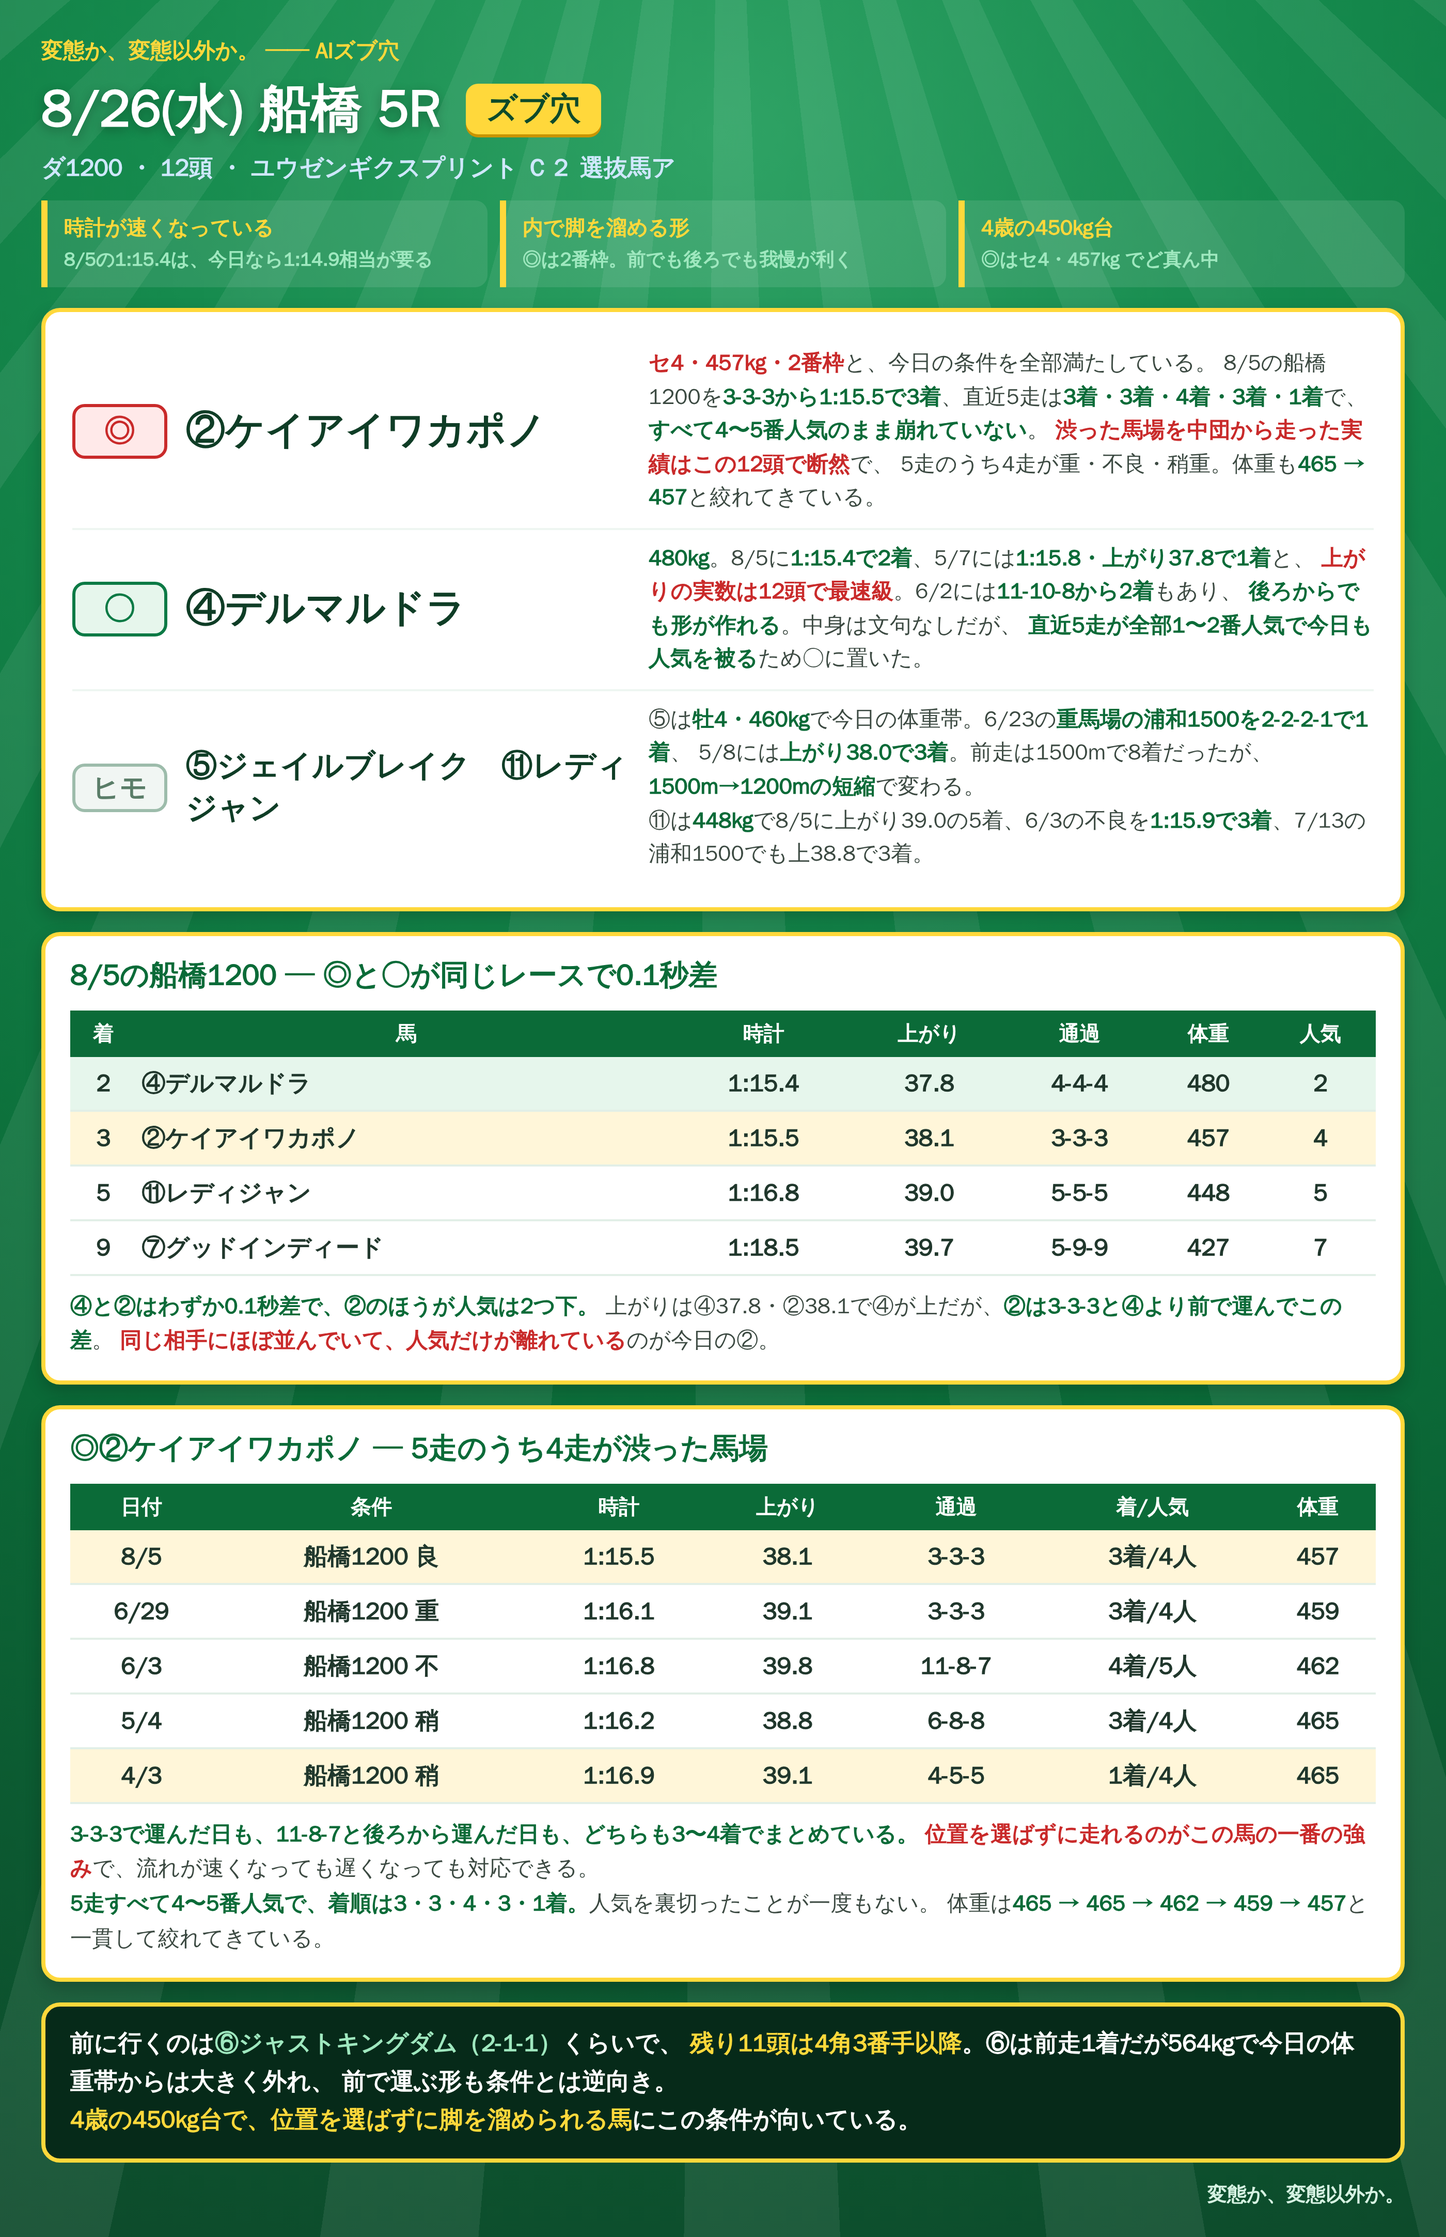
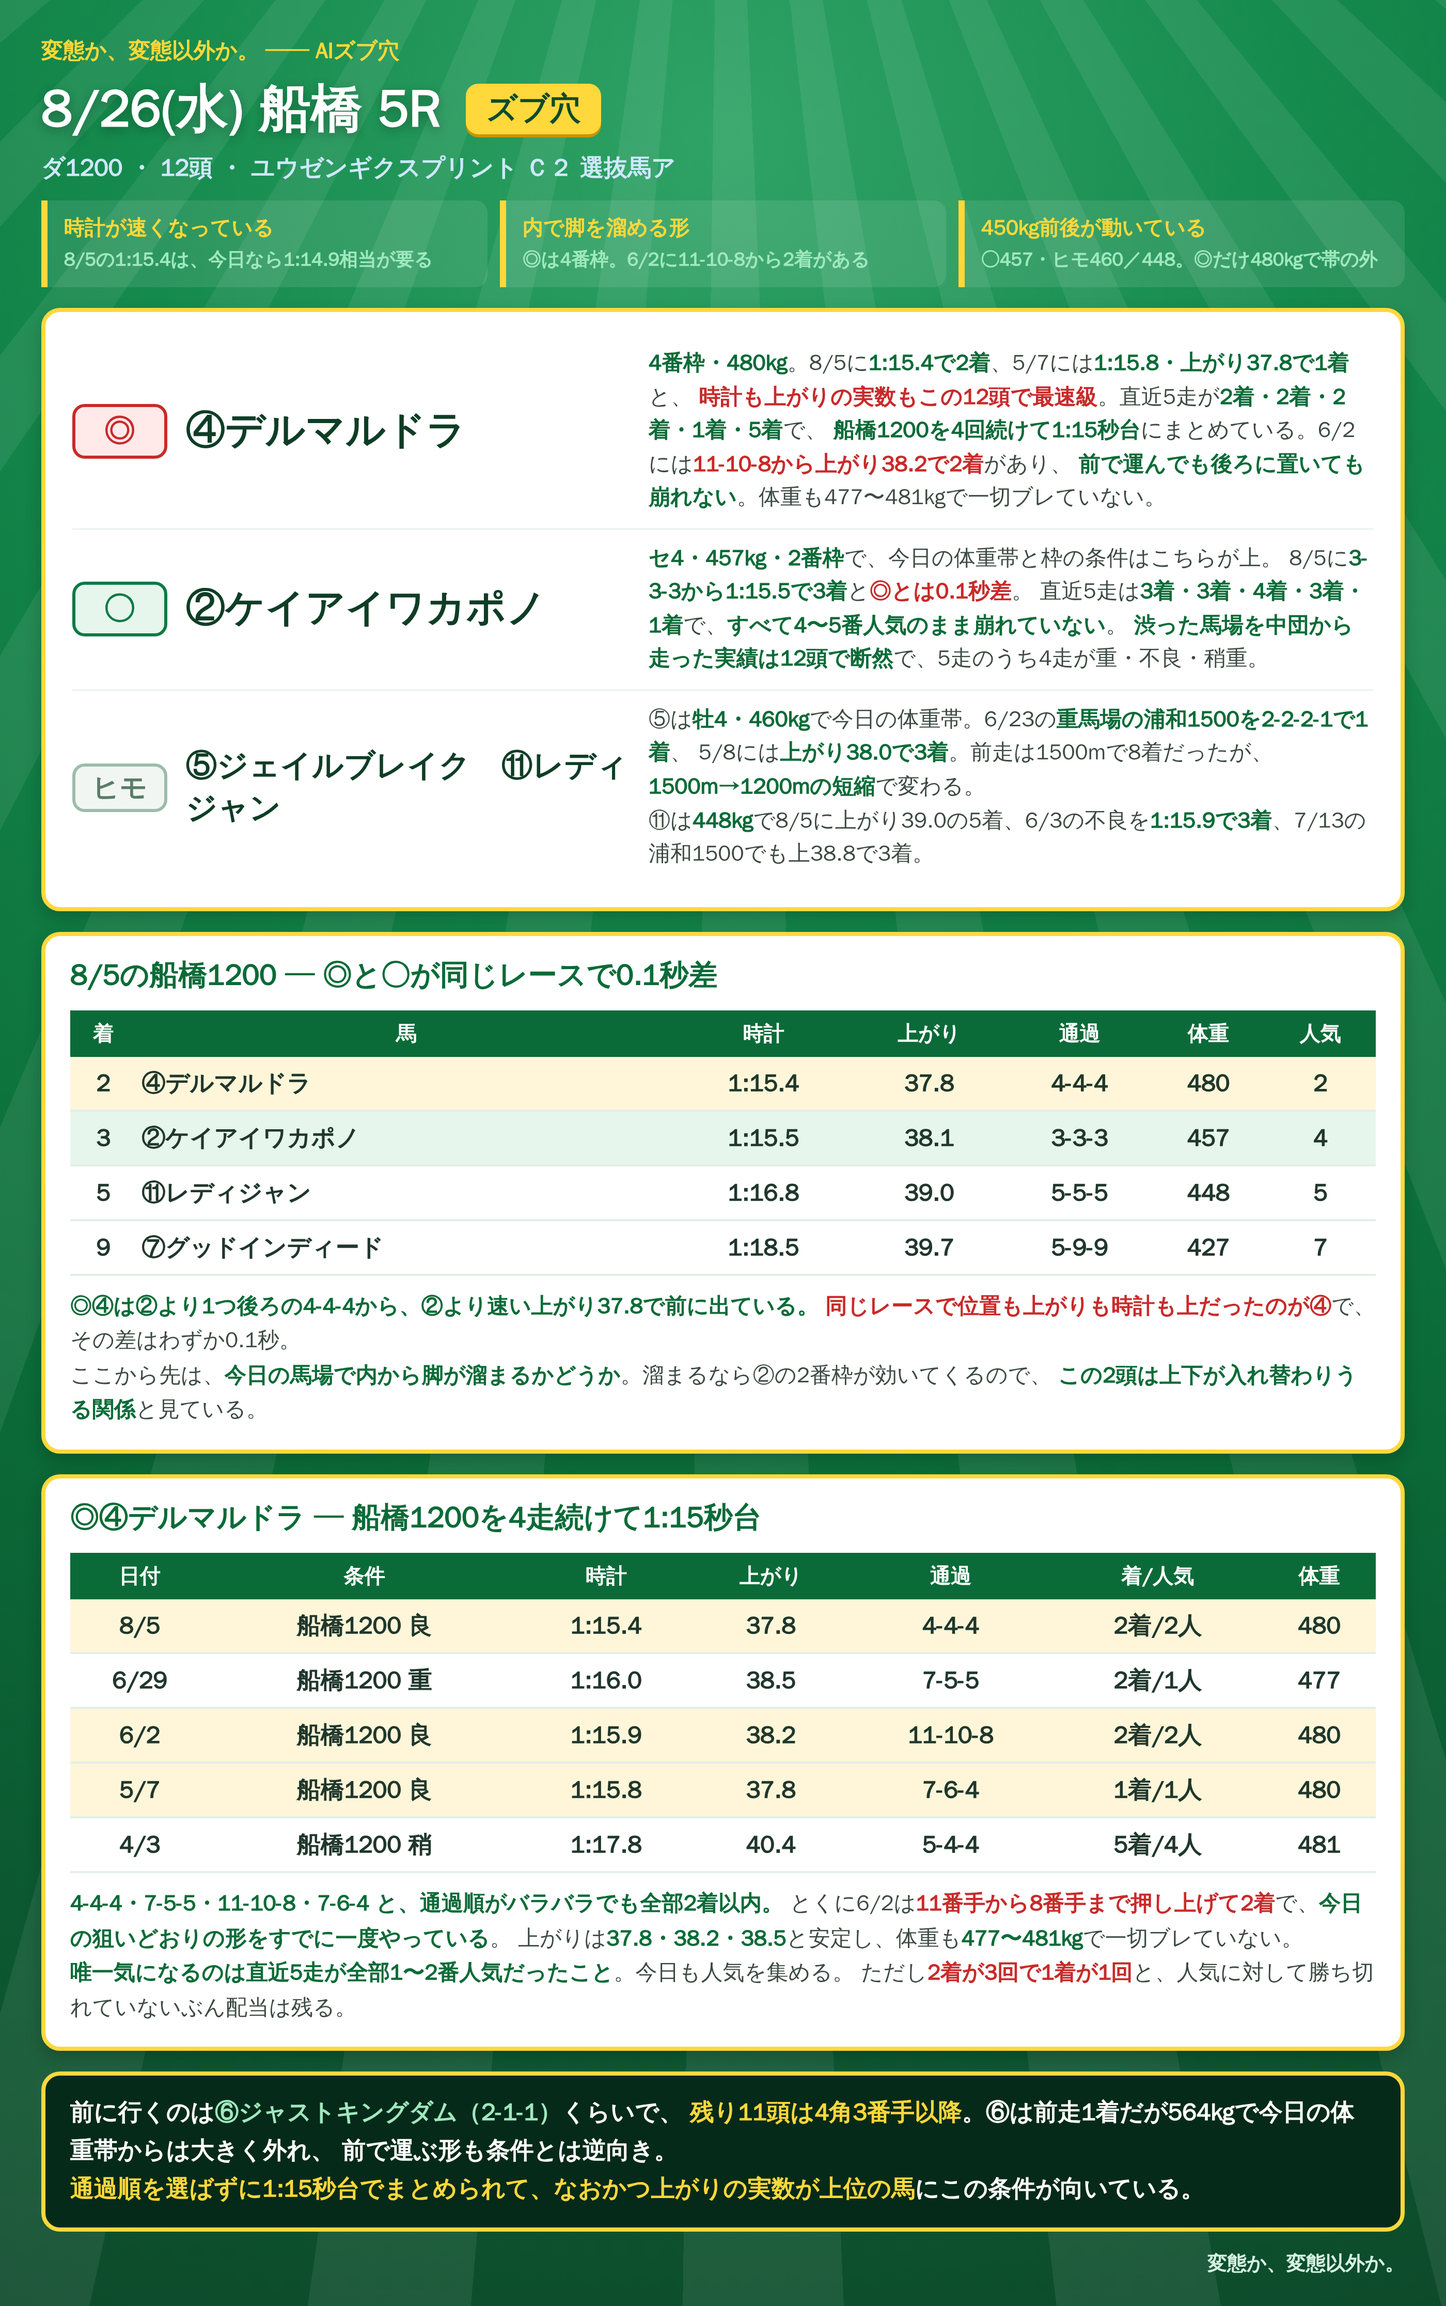
8/26 船橋 5R ◎④デルマルドラに差し替え
◎④デルマルドラ ○②ケイアイワカポノ に入れ替え（ヒモは⑤⑪のまま）。
④は8/5に②と同じレースで0.1秒差の2着、位置も上がりも時計も②より上。
船橋1200を4走続けて1:15秒台、通過順が4-4-4/7-5-5/11-10-8/7-6-4とバラバラでも
全部2着以内。6/2の11-10-8から2着は今日の狙いどおりの形。

Claude-Session: https://claude.ai/code/session_01RoHscZkr96FNaxQWvUqgEw

diff --git a/notes/live/2026-08-26/funabashi_5R.html b/notes/live/2026-08-26/funabashi_5R.html
@@ -45,25 +45,24 @@
 
 <div class="reads">
  <div class="rd"><b>時計が速くなっている</b><br><span class="x">8/5の1:15.4は、今日なら1:14.9相当が要る</span></div>
- <div class="rd"><b>内で脚を溜める形</b><br><span class="x">◎は2番枠。前でも後ろでも我慢が利く</span></div>
- <div class="rd"><b>4歳の450kg台</b><br><span class="x">◎はセ4・457kg でど真ん中</span></div>
+ <div class="rd"><b>内で脚を溜める形</b><br><span class="x">◎は4番枠。6/2に11-10-8から2着がある</span></div>
+ <div class="rd"><b>450kg前後が動いている</b><br><span class="x">○457・ヒモ460／448。◎だけ480kgで帯の外</span></div>
 </div>
 
 <div class="picks">
  <div class="pr">
-  <div class="mk">◎</div><div class="nm">②ケイアイワカポノ</div>
-  <div class="why"><b class="r">セ4・457kg・2番枠</b>と、今日の条件を全部満たしている。
-  8/5の船橋1200を<b>3-3-3から1:15.5で3着</b>、直近5走は<b>3着・3着・4着・3着・1着</b>で、
-  <b>すべて4〜5番人気のまま崩れていない</b>。
-  <b class="r">渋った馬場を中団から走った実績はこの12頭で断然</b>で、
-  5走のうち4走が重・不良・稍重。体重も<b>465 → 457</b>と絞れてきている。</div>
+  <div class="mk">◎</div><div class="nm">④デルマルドラ</div>
+  <div class="why"><b>4番枠・480kg</b>。8/5に<b>1:15.4で2着</b>、5/7には<b>1:15.8・上がり37.8で1着</b>と、
+  <b class="r">時計も上がりの実数もこの12頭で最速級</b>。直近5走が<b>2着・2着・2着・1着・5着</b>で、
+  <b>船橋1200を4回続けて1:15秒台</b>にまとめている。6/2には<b class="r">11-10-8から上がり38.2で2着</b>があり、
+  <b>前で運んでも後ろに置いても崩れない</b>。体重も477〜481kgで一切ブレていない。</div>
  </div>
  <div class="pr">
-  <div class="mk mk2">○</div><div class="nm">④デルマルドラ</div>
-  <div class="why"><b>480kg</b>。8/5に<b>1:15.4で2着</b>、5/7には<b>1:15.8・上がり37.8で1着</b>と、
-  <b class="r">上がりの実数は12頭で最速級</b>。6/2には<b>11-10-8から2着</b>もあり、
-  <b>後ろからでも形が作れる</b>。中身は文句なしだが、
-  <b>直近5走が全部1〜2番人気で今日も人気を被る</b>ため○に置いた。</div>
+  <div class="mk mk2">○</div><div class="nm">②ケイアイワカポノ</div>
+  <div class="why"><b>セ4・457kg・2番枠</b>で、今日の体重帯と枠の条件はこちらが上。
+  8/5に<b>3-3-3から1:15.5で3着</b>と<b class="r">◎とは0.1秒差</b>。
+  直近5走は<b>3着・3着・4着・3着・1着</b>で、<b>すべて4〜5番人気のまま崩れていない</b>。
+  <b>渋った馬場を中団から走った実績は12頭で断然</b>で、5走のうち4走が重・不良・稍重。</div>
  </div>
  <div class="pr">
   <div class="mk mk3">ヒモ</div><div class="nm s">⑤ジェイルブレイク　⑪レディジャン</div>
@@ -77,35 +76,37 @@
  <div class="sh">8/5の船橋1200 ─ ◎と○が同じレースで0.1秒差</div>
  <table>
   <tr><th>着</th><th>馬</th><th>時計</th><th>上がり</th><th>通過</th><th>体重</th><th>人気</th></tr>
-  <tr class="o"><td>2</td><td class="l">④デルマルドラ</td><td><b>1:15.4</b></td><td><b>37.8</b></td><td>4-4-4</td><td>480</td><td>2</td></tr>
-  <tr class="hi"><td>3</td><td class="l">②ケイアイワカポノ</td><td><b>1:15.5</b></td><td>38.1</td><td>3-3-3</td><td>457</td><td><b>4</b></td></tr>
+  <tr class="hi"><td>2</td><td class="l">④デルマルドラ</td><td><b>1:15.4</b></td><td><b>37.8</b></td><td>4-4-4</td><td>480</td><td>2</td></tr>
+  <tr class="o"><td>3</td><td class="l">②ケイアイワカポノ</td><td>1:15.5</td><td>38.1</td><td>3-3-3</td><td>457</td><td>4</td></tr>
   <tr><td>5</td><td class="l">⑪レディジャン</td><td>1:16.8</td><td>39.0</td><td>5-5-5</td><td>448</td><td>5</td></tr>
   <tr><td>9</td><td class="l">⑦グッドインディード</td><td>1:18.5</td><td>39.7</td><td>5-9-9</td><td>427</td><td>7</td></tr>
  </table>
- <div class="note"><b>④と②はわずか0.1秒差で、②のほうが人気は2つ下。</b>
- 上がりは④37.8・②38.1で④が上だが、<b>②は3-3-3と④より前で運んでこの差</b>。
- <b class="r">同じ相手にほぼ並んでいて、人気だけが離れている</b>のが今日の②。</div>
+ <div class="note"><b>◎④は②より1つ後ろの4-4-4から、②より速い上がり37.8で前に出ている。</b>
+ <b class="r">同じレースで位置も上がりも時計も上だったのが④</b>で、その差はわずか0.1秒。<br>
+ ここから先は、<b>今日の馬場で内から脚が溜まるかどうか</b>。溜まるなら②の2番枠が効いてくるので、
+ <b>この2頭は上下が入れ替わりうる関係</b>と見ている。</div>
 </div>
 
 <div class="sec">
- <div class="sh">◎②ケイアイワカポノ ─ 5走のうち4走が渋った馬場</div>
+ <div class="sh">◎④デルマルドラ ─ 船橋1200を4走続けて1:15秒台</div>
  <table>
   <tr><th>日付</th><th>条件</th><th>時計</th><th>上がり</th><th>通過</th><th>着/人気</th><th>体重</th></tr>
-  <tr class="hi"><td>8/5</td><td>船橋1200 <b>良</b></td><td><b>1:15.5</b></td><td>38.1</td><td>3-3-3</td><td><b>3着</b>/4人</td><td>457</td></tr>
-  <tr><td>6/29</td><td>船橋1200 重</td><td>1:16.1</td><td>39.1</td><td>3-3-3</td><td><b>3着</b>/4人</td><td>459</td></tr>
-  <tr><td>6/3</td><td>船橋1200 不</td><td>1:16.8</td><td>39.8</td><td><b>11-8-7</b></td><td>4着/5人</td><td>462</td></tr>
-  <tr><td>5/4</td><td>船橋1200 稍</td><td>1:16.2</td><td>38.8</td><td>6-8-8</td><td><b>3着</b>/4人</td><td>465</td></tr>
-  <tr class="hi"><td>4/3</td><td>船橋1200 稍</td><td>1:16.9</td><td>39.1</td><td>4-5-5</td><td><b>1着</b>/4人</td><td>465</td></tr>
+  <tr class="hi"><td>8/5</td><td>船橋1200 良</td><td><b>1:15.4</b></td><td><b>37.8</b></td><td>4-4-4</td><td><b>2着</b>/2人</td><td>480</td></tr>
+  <tr><td>6/29</td><td>船橋1200 重</td><td>1:16.0</td><td>38.5</td><td>7-5-5</td><td><b>2着</b>/1人</td><td>477</td></tr>
+  <tr class="hi"><td>6/2</td><td>船橋1200 良</td><td>1:15.9</td><td>38.2</td><td><b>11-10-8</b></td><td><b>2着</b>/2人</td><td>480</td></tr>
+  <tr class="hi"><td>5/7</td><td>船橋1200 良</td><td>1:15.8</td><td><b>37.8</b></td><td>7-6-4</td><td><b>1着</b>/1人</td><td>480</td></tr>
+  <tr><td>4/3</td><td>船橋1200 稍</td><td>1:17.8</td><td>40.4</td><td>5-4-4</td><td>5着/4人</td><td>481</td></tr>
  </table>
- <div class="note"><b>3-3-3で運んだ日も、11-8-7と後ろから運んだ日も、どちらも3〜4着でまとめている。</b>
- <b class="r">位置を選ばずに走れるのがこの馬の一番の強み</b>で、流れが速くなっても遅くなっても対応できる。<br>
- <b>5走すべて4〜5番人気で、着順は3・3・4・3・1着。</b>人気を裏切ったことが一度もない。
- 体重は<b>465 → 465 → 462 → 459 → 457</b>と一貫して絞れてきている。</div>
+ <div class="note"><b>4-4-4・7-5-5・11-10-8・7-6-4 と、通過順がバラバラでも全部2着以内。</b>
+ とくに6/2は<b class="r">11番手から8番手まで押し上げて2着</b>で、<b>今日の狙いどおりの形をすでに一度やっている</b>。
+ 上がりは<b>37.8・38.2・38.5</b>と安定し、体重も<b>477〜481kg</b>で一切ブレていない。<br>
+ <b>唯一気になるのは直近5走が全部1〜2番人気だったこと</b>。今日も人気を集める。
+ ただし<b class="r">2着が3回で1着が1回</b>と、人気に対して勝ち切れていないぶん配当は残る。</div>
 </div>
 
 <div class="foot">前に行くのは<span class="c">⑥ジャストキングダム（2-1-1）</span>くらいで、
 <span class="y">残り11頭は4角3番手以降</span>。⑥は前走1着だが<b>564kg</b>で今日の体重帯からは大きく外れ、
 前で運ぶ形も条件とは逆向き。<br>
-<span class="y">4歳の450kg台で、位置を選ばずに脚を溜められる馬</span>にこの条件が向いている。</div>
+<span class="y">通過順を選ばずに1:15秒台でまとめられて、なおかつ上がりの実数が上位の馬</span>にこの条件が向いている。</div>
 <div class="sig">変態か、変態以外か。</div>
 </div></div></body></html>

diff --git a/notes/live/2026-08-26/README.md b/notes/live/2026-08-26/README.md
@@ -229,47 +229,49 @@
 
 | 印 | 馬 | 年齢 | 体重 | 枠 |
 |---|---|---|---|---|
-| ◎ | ②ケイアイワカポノ | **セ4** | **457** | **2** |
-| ○ | ④デルマルドラ | 牡5 | 480 | 4 |
+| ◎ | ④デルマルドラ | 牡5 | 480 | 4 |
+| ○ | ②ケイアイワカポノ | セ4 | **457** | **2** |
 | ヒモ | ⑤ジェイルブレイク／⑪レディジャン | 牡4／牝7 | 460／448 | 5／11 |
-
-**◎はセ4・457kg・2番枠と、今日の3つの読みを全部満たしている。**
 
 ### 8/5の船橋1200（◎と○が同じレースで0.1秒差）
 
 | 着 | 馬 | 時計 | 上がり | 通過 | 体重 | 人気 |
 |---|---|---|---|---|---|---|
-| 2 | ④デルマルドラ | **1:15.4** | **37.8** | 4-4-4 | 480 | 2 |
-| 3 | **②ケイアイワカポノ** | **1:15.5** | 38.1 | 3-3-3 | 457 | **4** |
+| 2 | **④デルマルドラ** | **1:15.4** | **37.8** | 4-4-4 | 480 | 2 |
+| 3 | **②ケイアイワカポノ** | 1:15.5 | 38.1 | 3-3-3 | 457 | 4 |
 | 5 | ⑪レディジャン | 1:16.8 | 39.0 | 5-5-5 | 448 | 5 |
 | 9 | ⑦グッドインディード | 1:18.5 | 39.7 | 5-9-9 | 427 | 7 |
 
-**④と②はわずか0.1秒差で、②のほうが人気は2つ下。**
-上がりは④37.8・②38.1で④が上だが、②は3-3-3と④より前で運んでこの差。
-**同じ相手にほぼ並んでいて、人気だけが離れている。**
+**◎④は②より1つ後ろの4-4-4から、②より速い上がり37.8で前に出ている。**
+同じレースで位置も上がりも時計も上だったのが④で、その差はわずか0.1秒。
 
-### ◎②ケイアイワカポノ ─ 5走のうち4走が渋った馬場
+ここから先は今日の馬場で内から脚が溜まるかどうか。溜まるなら②の2番枠が効いてくるので、
+**この2頭は上下が入れ替わりうる関係**と見ている。
+
+### ◎④デルマルドラ ─ 船橋1200を4走続けて1:15秒台
 
 | 日付 | 条件 | 時計 | 上がり | 通過 | 着/人気 | 体重 |
 |---|---|---|---|---|---|---|
-| 8/5 | 船橋1200 **良** | **1:15.5** | 38.1 | 3-3-3 | **3着**/4人 | 457 |
-| 6/29 | 船橋1200 重 | 1:16.1 | 39.1 | 3-3-3 | **3着**/4人 | 459 |
-| 6/3 | 船橋1200 不 | 1:16.8 | 39.8 | **11-8-7** | 4着/5人 | 462 |
-| 5/4 | 船橋1200 稍 | 1:16.2 | 38.8 | 6-8-8 | **3着**/4人 | 465 |
-| 4/3 | 船橋1200 稍 | 1:16.9 | 39.1 | 4-5-5 | **1着**/4人 | 465 |
+| 8/5 | 船橋1200 良 | **1:15.4** | **37.8** | 4-4-4 | **2着**/2人 | 480 |
+| 6/29 | 船橋1200 重 | 1:16.0 | 38.5 | 7-5-5 | **2着**/1人 | 477 |
+| 6/2 | 船橋1200 良 | 1:15.9 | 38.2 | **11-10-8** | **2着**/2人 | 480 |
+| 5/7 | 船橋1200 良 | 1:15.8 | **37.8** | 7-6-4 | **1着**/1人 | 480 |
+| 4/3 | 船橋1200 稍 | 1:17.8 | 40.4 | 5-4-4 | 5着/4人 | 481 |
 
-**3-3-3で運んだ日も、11-8-7と後ろから運んだ日も、どちらも3〜4着でまとめている。**
-位置を選ばずに走れるのがこの馬の一番の強みで、流れが速くなっても遅くなっても対応できる。
+**4-4-4・7-5-5・11-10-8・7-6-4 と、通過順がバラバラでも全部2着以内。**
+とくに6/2は**11番手から8番手まで押し上げて2着**で、今日の狙いどおりの形をすでに一度やっている。
+上がりは37.8・38.2・38.5と安定し、体重も477〜481kgで一切ブレていない。
 
-**5走すべて4〜5番人気で、着順は3・3・4・3・1着。人気を裏切ったことが一度もない。**
+**気になるのは直近5走が全部1〜2番人気だったこと。** 今日も人気を集める。
+ただし2着が3回で1着が1回と、人気に対して勝ち切れていないぶん配当は残る。
+
+### ○②ケイアイワカポノ
+
+セ4・457kg・2番枠で、**今日の体重帯と枠の条件はこちらが上**。
+8/5に3-3-3から1:15.5で3着と◎とは0.1秒差。
+直近5走は3着・3着・4着・3着・1着で、**すべて4〜5番人気のまま崩れていない**。
+渋った馬場を中団から走った実績は12頭で断然（本物4）で、5走のうち4走が重・不良・稍重。
 体重は465 → 465 → 462 → 459 → 457と一貫して絞れてきている。
-渋った馬場を中団から走った実績は12頭で断然（本物4）。
-
-### ○④デルマルドラを◎にしなかった理由
-
-8/5に1:15.4で2着、5/7には1:15.8・**上がり37.8で1着**と、上がりの実数は12頭で最速級。
-6/2には11-10-8から2着もあり、後ろからでも形が作れる。中身は文句なし。
-ただし**直近5走が全部1〜2番人気**で今日も人気を被るため、方針どおり○。
 
 ### 印を回さなかった馬
 
